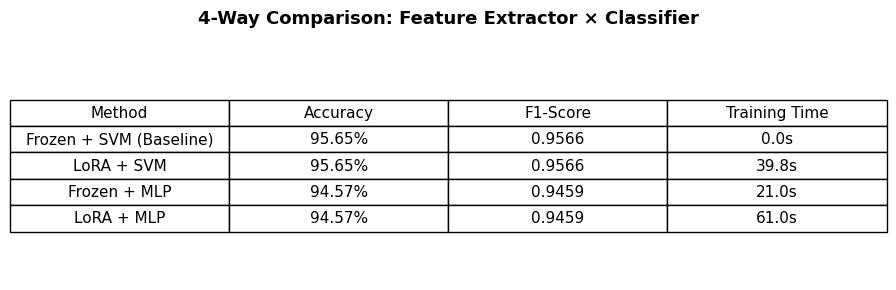
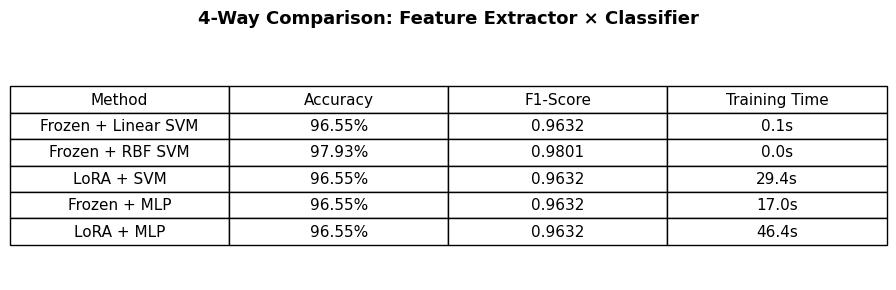
report fixed

Changed region(s): [[0.0, 0.2793, 1.0, 0.869]]

diff --git a/lab1/code/part3.py b/lab1/code/part3.py
@@ -9,7 +9,9 @@ import torch.nn as nn
 import torchvision
 from torchvision.models import mobilenet_v3_small, MobileNet_V3_Small_Weights # load pretrained weights and transforms
 from torchvision.models.feature_extraction import create_feature_extractor # extract features from intermediate layers
-from sklearn.model_selection import train_test_split, GridSearchCV
+from sklearn.model_selection import train_test_split
+import scipy.io
+import cv26_lab1_part3_utils as p3
 from sklearn.svm import SVC
 from sklearn.preprocessing import StandardScaler
 from sklearn.metrics import accuracy_score, confusion_matrix, f1_score
@@ -28,7 +30,7 @@ def save_fig(filename: str) -> None:
     for directory in (RESULTS_DIR, PICTURES_DIR):
         plt.savefig(os.path.join(directory, filename), bbox_inches='tight')
 
-classes = ['car', 'person', 'bike']
+classes = ['person', 'car', 'bike']  
 
 # 3.2.1 Load MobileNetV3-Small and its pretrained weights
 
@@ -71,44 +73,68 @@ with torch.no_grad(): # dont compute gradients
 
 features = np.array(features)
 
-# 3.2.3 Split the dataset, train an RBF SVM, and evaluate its performance
+# 3.2.3 Split the dataset, train an SVM, and evaluate its performance
+# 5-fold cross-validation using createTrainTest and svm from part 3.1 utils
 
-indices = np.arange(len(features))
-idx_train, idx_test, y_train, y_test = train_test_split(
-    indices, labels, test_size=0.3, random_state=42, stratify=labels
-) # with stratification to maintain class balance in train and test sets
+# Group features by class (createTrainTest expects features[class][image])
+features_by_class = [
+    [features[i] for i in range(len(features)) if labels[i] == c]
+    for c in range(len(classes))
+]
+# Track original flat indices per class (needed for downstream LoRA/Grad-CAM)
+_orig_idx_by_class = [np.where(labels == c)[0] for c in range(len(classes))]
 
-# Normalize features — SVMs are sensitive to input scale
-scaler  = StandardScaler() 
+_orig_cwd = os.getcwd()
+os.chdir(os.path.join(os.path.dirname(__file__), '..', '..'))  # Fold_Indices.mat is at project root
+
+fold_accuracies = []
+conf_matrix = None
+for k in range(5):
+    data_tr, lbl_tr, data_te, lbl_te = p3.createTrainTest(features_by_class, k)
+    X_tr, X_te = np.array(data_tr), np.array(data_te)
+    y_tr, y_te = np.array(lbl_tr), np.array(lbl_te)
+
+    sc = StandardScaler()
+    X_tr, X_te = sc.fit_transform(X_tr), sc.transform(X_te)
+
+    fold_acc, y_pred_k, _ = p3.svm(X_tr, y_tr, X_te, y_te)
+    fold_accuracies.append(fold_acc)
+    print(f"  Fold {k+1}: {fold_acc*100:.2f}%")
+
+    fold_cm = confusion_matrix(y_te, y_pred_k, labels=list(range(len(classes))))
+    conf_matrix = fold_cm if conf_matrix is None else conf_matrix + fold_cm
+
+conf_matrix = (conf_matrix / 5).round().astype(int)
+accuracy = np.mean(fold_accuracies)
+print(f"CNN (MobileNetV3) + SVM 5-fold accuracy: {accuracy*100:.2f}% (±{np.std(fold_accuracies)*100:.2f}%)")
+print(f"Confusion matrix (averaged over folds):\n{conf_matrix}")
+
+# Keep last fold for downstream use (LoRA, Grad-CAM)
+mat = scipy.io.loadmat('./Fold_Indices.mat')
+_fold_idx = mat['Indices'].flatten()[4].flatten()  # last fold (k=4)
+idx_train_list, idx_test_list = [], []
+for c in range(len(classes)):
+    ic = _fold_idx[c].flatten()
+    orig = _orig_idx_by_class[c][ic]
+    lim = int(round(0.7 * len(ic)))
+    idx_train_list.extend(orig[:lim])
+    idx_test_list.extend(orig[lim:])
+idx_train = np.array(idx_train_list)
+idx_test = np.array(idx_test_list)
+y_train, y_test = labels[idx_train], labels[idx_test]
+scaler = StandardScaler()
 X_train = scaler.fit_transform(features[idx_train])
 X_test  = scaler.transform(features[idx_test])
+accuracy_last_fold, y_pred, _ = p3.svm(X_train, y_train, X_test, y_test)
+print(f"Last fold (baseline for comparison table): {accuracy_last_fold*100:.2f}%")
 
-# Grid search over SVM hyperparameters with 5-fold stratified cross-validation
-param_grid = {
-    'C':     [0.1, 1, 10, 100, 1000],
-    'gamma': ['scale', 'auto', 1e-3, 1e-2, 1e-1],
-}
-grid_search = GridSearchCV(
-    SVC(kernel='rbf', decision_function_shape='ovr'),
-    param_grid, cv=5, scoring='accuracy', n_jobs=-1, verbose=1,
-)
-grid_search.fit(X_train, y_train)
-svm = grid_search.best_estimator_
-best_svm_params = grid_search.best_params_  # reuse everywhere
-print(f"Best SVM params: {best_svm_params}  (CV acc: {grid_search.best_score_*100:.2f}%)")
-
-y_pred   = svm.predict(X_test)
-accuracy = accuracy_score(y_test, y_pred)
-conf_matrix = confusion_matrix(y_test, y_pred)
-print(f"CNN (MobileNetV3) + SVM accuracy: {accuracy*100:.2f}%")
-print(f"Confusion matrix:\n{conf_matrix}")
+os.chdir(_orig_cwd)
 
 fig, ax = plt.subplots(figsize=(5, 4))
 sns.heatmap(conf_matrix, annot=True, fmt='d', cmap='Blues',
             xticklabels=classes, yticklabels=classes, ax=ax)
 ax.set_xlabel('Predicted')
 ax.set_ylabel('True')
-ax.set_title(f'Confusion Matrix — MobileNet + SVM ({accuracy*100:.2f}%)')
 plt.tight_layout()
 save_fig('confusion_matrix.jpg')
 plt.close()
@@ -189,9 +215,8 @@ def evaluate_pipeline(imgs, lbls, label):
     )
     sc = StandardScaler()
     Xtr, Xte = sc.fit_transform(Xtr), sc.transform(Xte)
-    clf = SVC(kernel='rbf', decision_function_shape='ovr', **best_svm_params)
-    clf.fit(Xtr, ytr)
-    print(f"{label} accuracy: {accuracy_score(yte, clf.predict(Xte))*100:.2f}%")
+    acc, _, _ = p3.svm(Xtr, ytr, Xte, yte)
+    print(f"{label} accuracy: {acc*100:.2f}%")
 
 evaluate_pipeline(*load_and_augment(add_gaussian_noise), "Gaussian noise")
 evaluate_pipeline(*load_and_augment(random_rotation),    "Random rotation")
@@ -244,12 +269,22 @@ def train_mlp(feat_train, y_train_t, feat_test, y_test_t,
     return head, acc, f1, preds, train_time
 
 
-# (A) Baseline: frozen backbone + SVM (already trained above)
+# (A) Baseline: frozen backbone + linear SVM (already trained above)
 svm_f1 = f1_score(y_test, y_pred, average='macro')
 t0 = time.time()
-SVC(kernel='rbf', decision_function_shape='ovr', **best_svm_params).fit(X_train, y_train)
+p3.svm(X_train, y_train, X_test, y_test)
 svm_time = time.time() - t0
-print(f"\n[Baseline] Frozen+SVM  — Acc: {accuracy*100:.2f}%  F1: {svm_f1:.4f}")
+print(f"\n[Baseline] Frozen+Linear SVM  — Acc: {accuracy_last_fold*100:.2f}%  F1: {svm_f1:.4f}")
+
+# (A2) Frozen backbone + RBF SVM (C=10)
+rbf_svm = SVC(kernel='rbf', C=10, gamma='scale', decision_function_shape='ovr')
+t0 = time.time()
+rbf_svm.fit(X_train, y_train)
+rbf_svm_time = time.time() - t0
+rbf_y_pred = rbf_svm.predict(X_test)
+rbf_svm_acc = accuracy_score(y_test, rbf_y_pred)
+rbf_svm_f1 = f1_score(y_test, rbf_y_pred, average='macro')
+print(f"[Frozen+RBF SVM] Acc: {rbf_svm_acc*100:.2f}%  F1: {rbf_svm_f1:.4f}  (C=10, gamma=scale)")
 
 # (B) LoRA backbone adaptation (train end-to-end to adapt features)
 print("\n--- Training: LoRA backbone adaptation ---")
@@ -308,11 +343,8 @@ X_te_lora = sc_lora.transform(lora_feats[idx_test])
 # (C) LoRA + SVM
 print("\n--- Evaluating: LoRA + SVM ---")
 t0 = time.time()
-svm_lora = SVC(kernel='rbf', decision_function_shape='ovr', **best_svm_params)
-svm_lora.fit(X_tr_lora, y_train)
+lora_svm_acc, lora_svm_preds, _ = p3.svm(X_tr_lora, y_train, X_te_lora, y_test)
 lora_svm_time = lora_backbone_time + (time.time() - t0)
-lora_svm_preds = svm_lora.predict(X_te_lora)
-lora_svm_acc = accuracy_score(y_test, lora_svm_preds)
 lora_svm_f1 = f1_score(y_test, lora_svm_preds, average='macro')
 print(f"[LoRA+SVM] Acc: {lora_svm_acc*100:.2f}%  F1: {lora_svm_f1:.4f}  Time: {lora_svm_time:.1f}s")
 
@@ -333,7 +365,8 @@ print(f"[Frozen+MLP] Acc: {nh_acc*100:.2f}%  F1: {nh_f1:.4f}  Time: {nh_time:.1f
 
 # --- Comparison table ---------------------------------------------------------
 results = [
-    ("Frozen + SVM (Baseline)", accuracy,     svm_f1,      svm_time),
+    ("Frozen + Linear SVM",     accuracy_last_fold, svm_f1,     svm_time),
+    ("Frozen + RBF SVM",        rbf_svm_acc,        rbf_svm_f1, rbf_svm_time),
     ("LoRA + SVM",              lora_svm_acc, lora_svm_f1, lora_svm_time),
     ("Frozen + MLP",            nh_acc,       nh_f1,       nh_time),
     ("LoRA + MLP",              lora_acc,     lora_f1,     lora_time),
